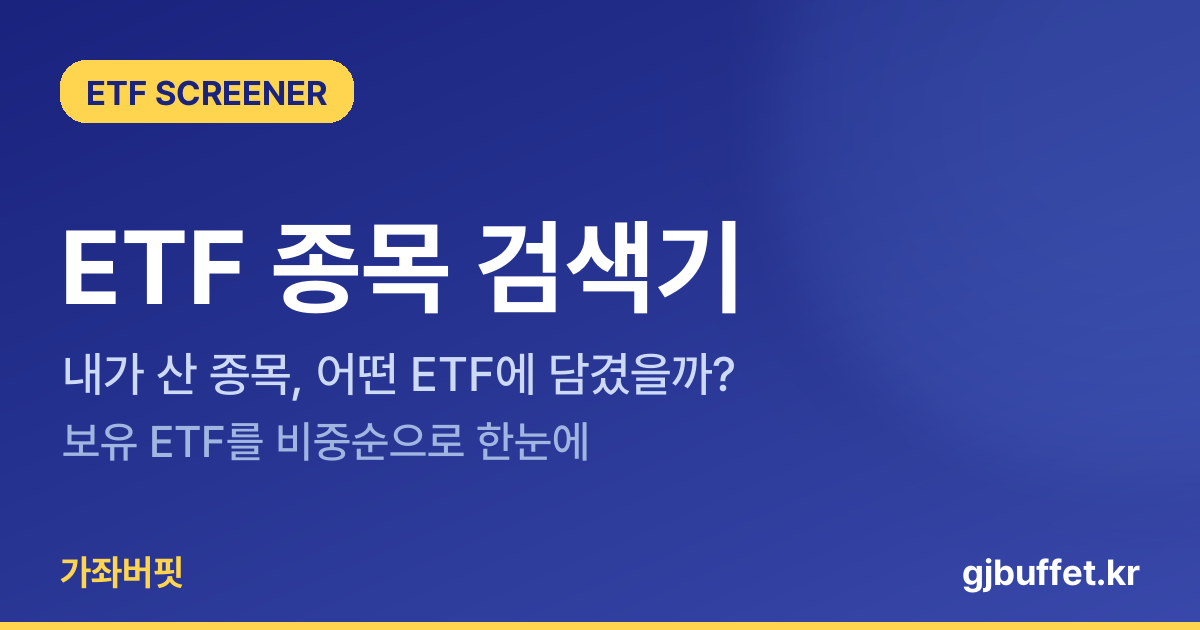
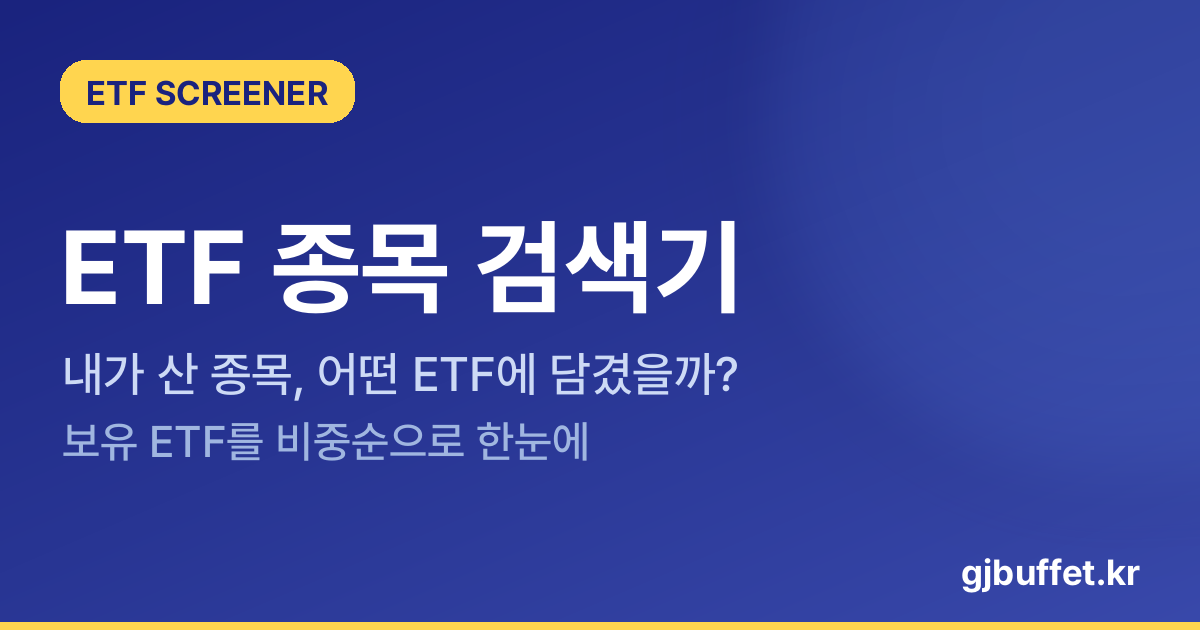
ETF 검색기 OG 썸네일에서 하단 '가좌버핏' 표기 제거
tools/make_etf_og.py의 푸터 좌측 문구를 비우고 assets/og/etf.png 재생성
(우측 gjbuffet.kr 도메인과 하단 골드 바는 유지)

Claude-Session: https://claude.ai/code/session_01NdAeo2ZoY6vHsHs6R5dDWJ

diff --git a/tools/make_etf_og.py b/tools/make_etf_og.py
@@ -38,7 +38,7 @@ def main():
     og.draw_text_smart(draw, (62, 415), '보유 ETF를 비중순으로 한눈에',
                        44, og.WEIGHT_MEDIUM, (160, 182, 224))
 
-    og.draw_footer(draw, PAL, '가좌버핏')
+    og.draw_footer(draw, PAL, '')   # 하단 좌측 '가좌버핏' 표기 없이 도메인만
 
     out = REPO / 'assets' / 'og' / 'etf.png'
     img.save(out)
